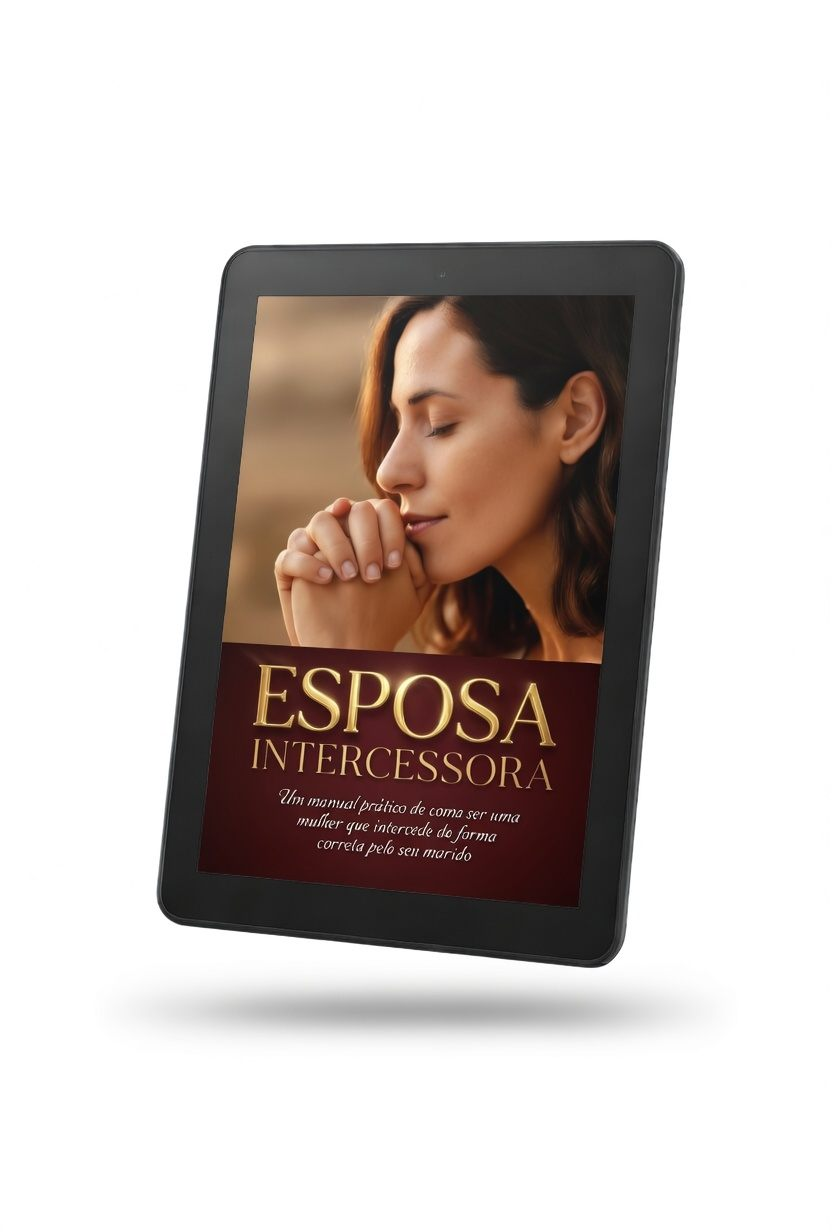
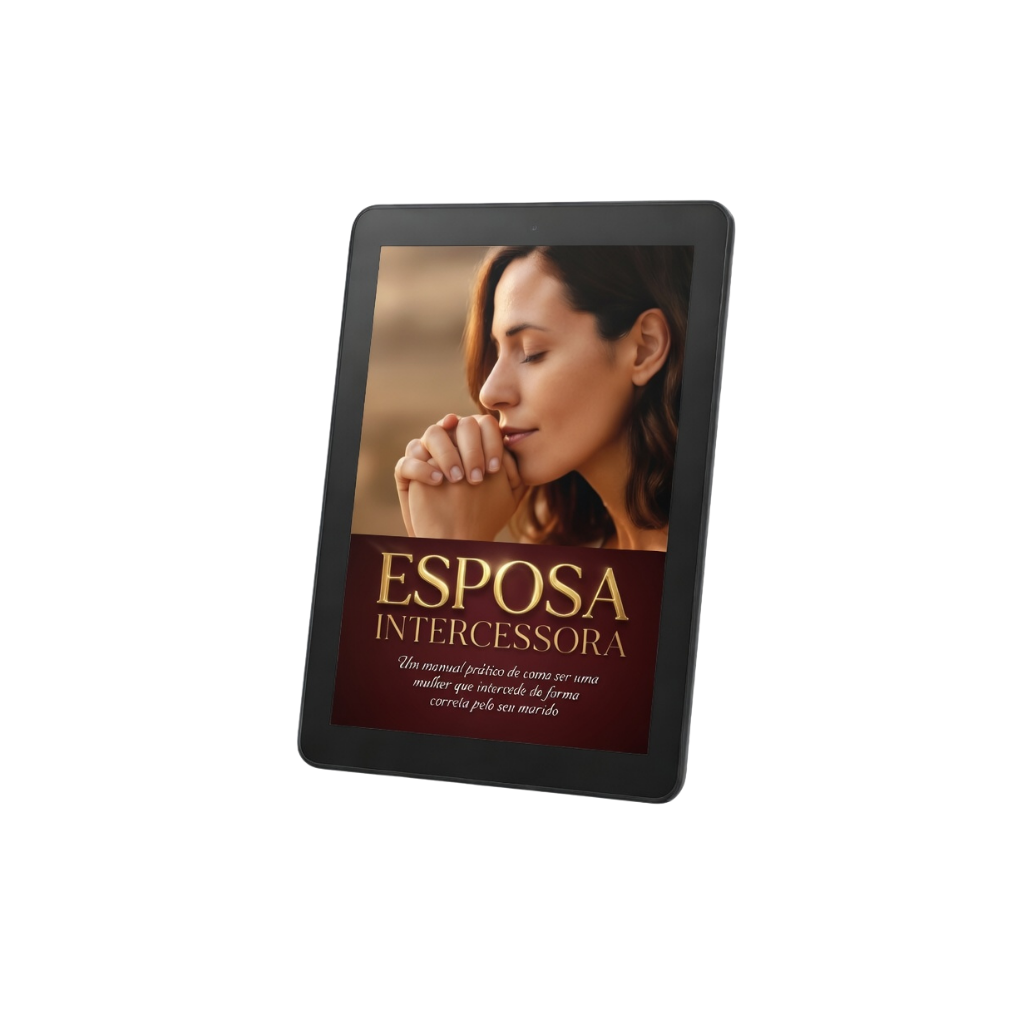
Atualizações no site: novas imagens, ajustes de layout e responsividade

Changed region(s): [[0.1875, 0.1875, 0.8438, 0.8438]]

diff --git a/index.html b/index.html
@@ -311,7 +311,7 @@
     #produtos { padding: 80px 0; background: var(--cream-lt); }
 
     .product-card {
-      background: var(--white);
+      background: var(--cream-lt);
       border: 1px solid var(--cream-dk);
       border-radius: 24px;
       padding: 44px 40px;
@@ -341,9 +341,8 @@
     }
     .product-mockup {
       width: 100%;
-      border-radius: 12px;
       display: block;
-      filter: drop-shadow(0 12px 32px rgba(58,15,24,.25));
+      mix-blend-mode: multiply;
     }
     .product-mockup-placeholder {
       width: 100%;
